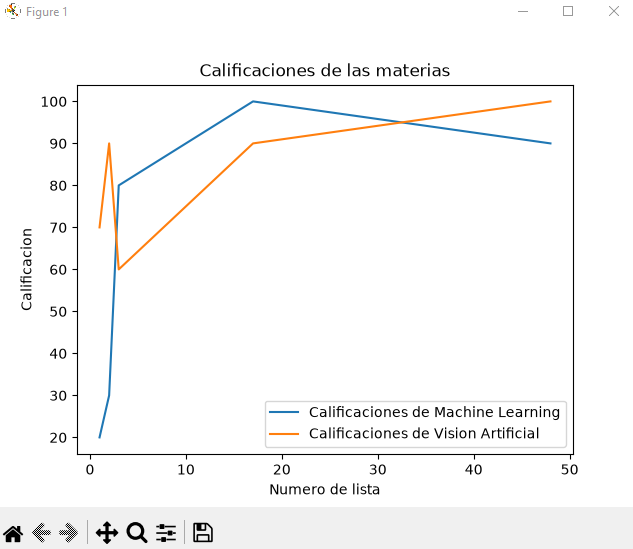
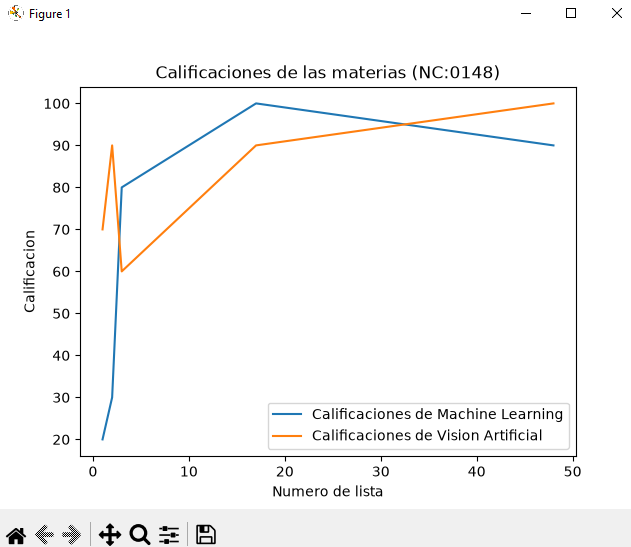
Add files via upload

diff --git a/p7-grafica-va-0148.py b/p7-grafica-va-0148.py
@@ -6,7 +6,7 @@ calificacion_ml = [20,30,80,100,90]
 calificacion_va = [70,90,60,90,100]
 plt.plot(no_lista, calificacion_ml, label="Calificaciones de Machine Learning")
 plt.plot(no_lista, calificacion_va, label="Calificaciones de Vision Artificial")
-plt.title("Calificaciones de las materias")
+plt.title("Calificaciones de las materias (NC:0148)")
 plt.xlabel("Numero de lista")
 plt.ylabel("Calificacion")
 plt.legend()

diff --git a/leeme.md b/leeme.md
@@ -1,0 +1,2 @@
+##  Gráfica de calificaciones 
+![alt text](image.png)
